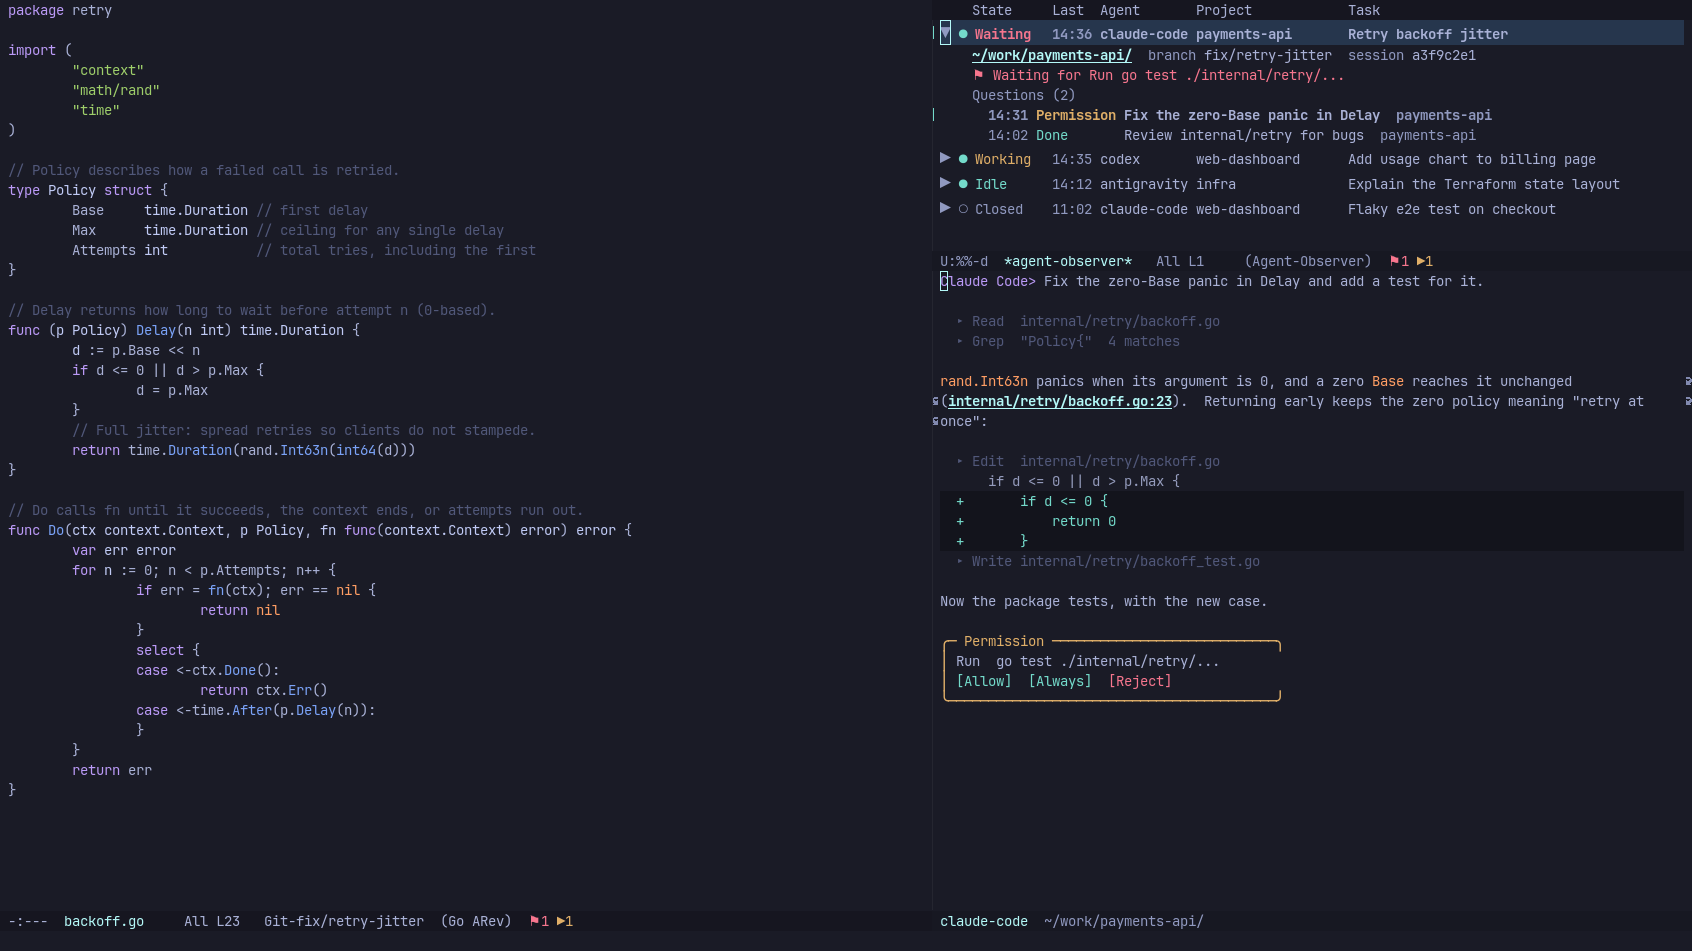
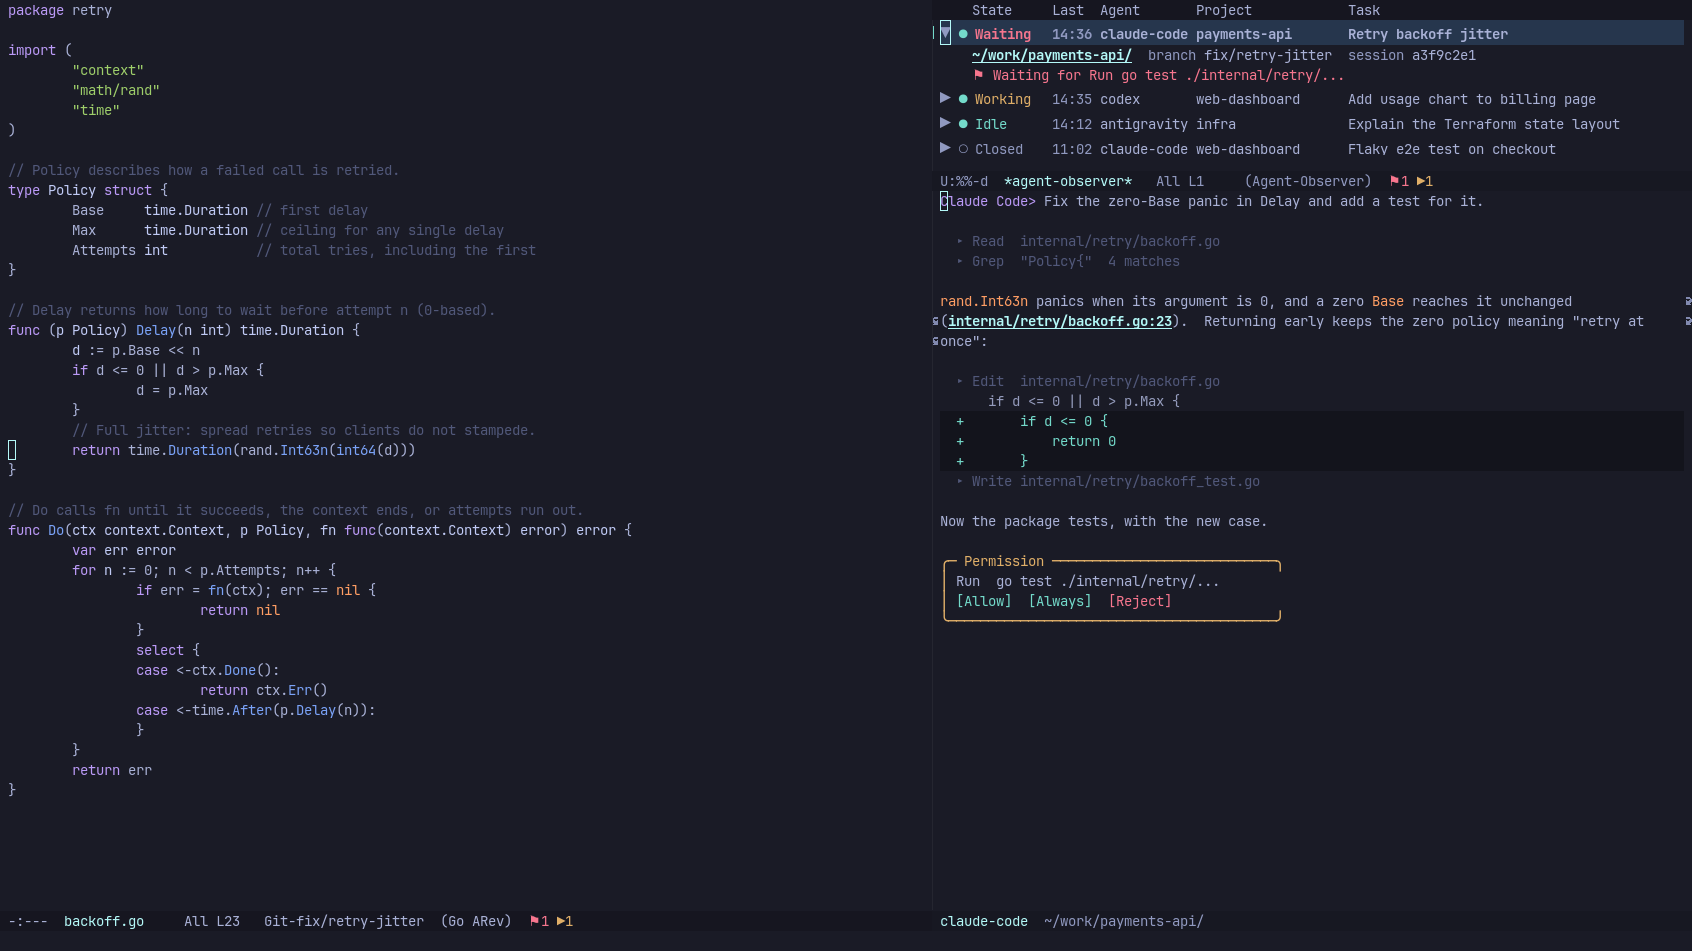
Show sessions in the list, without the prompts sent in them
A session's drop-down showed its questions, each a row with its status,
title and the code it was about.  The list is about sessions: the
drop-down now says where the session works and what it waits for, and
nothing more.  What only those rows needed goes with them -- `v' to
visit a question's code, the mark on the question shown, taking one
question off the list (D takes off a session) -- and with it :file and
:line of agent-shell-observer-submit.

The prompts are still kept: they are how a closed session is saved and
brought back, and what its title is written from.

diff --git a/README.md b/README.md
@@ -13,8 +13,8 @@ shows:
 - which agent it is and which project it works in
 - what it is working on
 
-Open a row to see its branch, what it is waiting for, and the prompts sent in
-it. The conversation shows below the list.
+Open a row to see where it works, its branch, and what it is waiting for. The
+conversation shows below the list.
 
 ## Features
 
@@ -71,11 +71,10 @@ Or clone the repository and use `:load-path` instead of `:vc`.
 |---|---|
 | `TAB` / click the arrow | Expand or collapse a session |
 | `RET` / double click | Open the conversation below the list |
-| `v` | Go to the code a prompt was about |
 | `f` | Show all sessions, only those waiting for you, or only those working |
 | `/` | Filter by agent, project, branch or state |
 | `L` | Put the conversation below, to the right of, or to the left of the list |
-| `D` | Remove a prompt, or a whole session, from the list (the agent keeps its sessions) |
+| `D` | Remove a closed session from the list (the agent keeps its sessions) |
 | `g` | Refresh |
 | `q` | Hide the list and the conversation |
 
@@ -86,25 +85,25 @@ Or clone the repository and use `:load-path` instead of `:vc`.
 | `agent-shell-observer-layout` | `below` | Where the conversation goes: `below`, `right` or `left` of the list |
 | `agent-shell-observer-history-file` | `agent-shell-observer-history.eld` in `user-emacs-directory` | Where prompts are saved; `nil` turns saving off |
 | `agent-shell-observer-notify-states` | `(waiting done error)` | Which states send a desktop notification |
-| `agent-shell-observer-summarize-titles` | `t` | Have a local Ollama model write each prompt's title |
+| `agent-shell-observer-summarize-titles` | `t` | Have a local Ollama model name sessions from their first prompt |
 
 ## Sending prompts from your own commands
 
 ```elisp
 (agent-shell-observer-submit shell-buffer prompt
                              :title "Why does this fail?"
-                             :file buffer-file-name :line 42
                              :location "src/foo.el:42")
 ```
 
-The prompt goes to `shell-buffer` and gets a row at the top of the list. `:file`
-and `:line` are the code it is about (`v` in the list goes there), and
-`:location` is how the prompt names that place.
+The prompt goes to `shell-buffer`, whose session moves to the top of the list
+and opens below it. `:title` names the session until a title is written for it,
+and `:location` is the place the prompt is about, as the prompt names it: the
+conversation is scrolled there when the session is opened.
 
 | Hook | |
 |---|---|
-| `agent-shell-observer-failed-functions` | Called with the entry, the agent and the reason when a prompt fails or its shell never starts a session. Return non-nil after sending the entry elsewhere with `agent-shell-observer-resubmit`; otherwise the row shows the error. |
-| `agent-shell-observer-title-text-function` | Returns the text an entry's title is written from, for example the prompt without text every prompt adds. |
+| `agent-shell-observer-failed-functions` | Called with the entry, the agent and the reason when a prompt fails or its shell never starts a session. Return non-nil after sending the entry elsewhere with `agent-shell-observer-resubmit`; otherwise the prompt is marked failed and a message says why. |
+| `agent-shell-observer-title-text-function` | Returns the text a session's title is written from, for example the prompt without text every prompt adds. |
 | `agent-shell-observer-owned-functions` | Marks a shell as driven by something else, so its prompts don't become sessions of their own. |
 
 ## Tests
